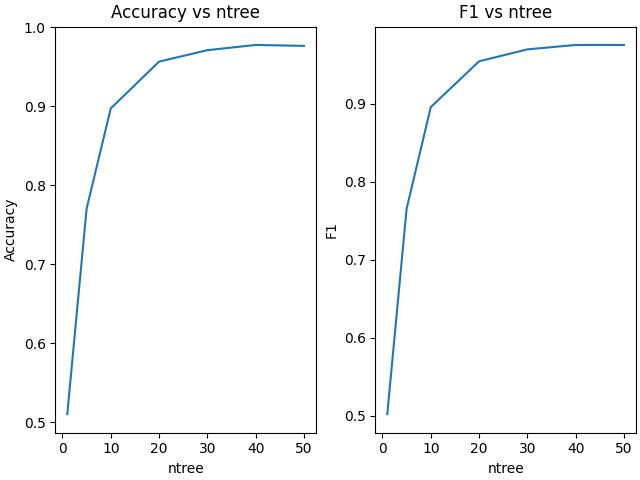
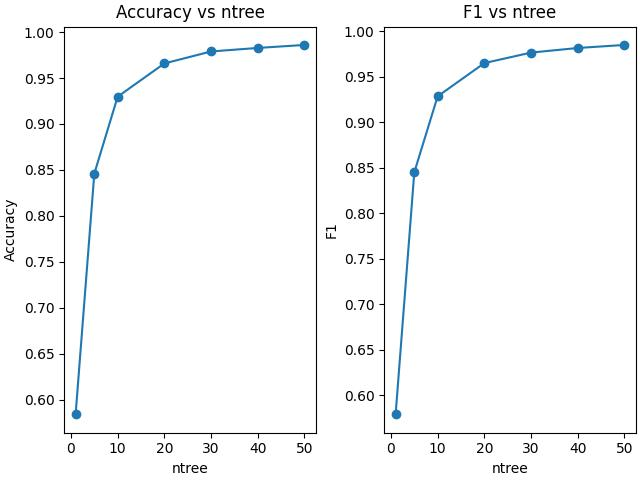
report for digits random forest, neural network

diff --git a/Final_Project.tex b/Final_Project.tex
@@ -252,13 +252,13 @@ To facilitate the task of creating this table on \LaTeX, please visit this \href
 
 \textbf{There are four ways in which we may receive extra credit on this assignment.} If you choose to work on any of the tasks below, please clearly indicate in your report,  \textcolor{dark-red}{\textbf{in red}}, which specific tasks you are working on for extra credit. Describe what you did as part of that task and discuss the corresponding results. Any source code you develop should be included in your Gradescope submission.
 
-\noindent \HIGHLIGHT{(Extra Points \#1: 10 Points)}
+\noindent \HIGHLIGHT{\textcolor{dark-red}{(Extra Points \#1: 10 Points)}}
 You may earn up to 10 extra points if you analyze all four datasets using an additional algorithm. That is, in this case you would be evaluating more than just two algorithms on each dataset.
 
 \noindent \HIGHLIGHT{(Extra Points \#2: 10 Points)}
 You may earn up to 10 extra points if you select a new \textit{challenging} dataset and evaluate the performance of different algorithms on it. A challenging dataset should necessarily include both categorical and numerical attributes and have more than two classes; or it should be a dataset where you have to classify images.
 
-\noindent \HIGHLIGHT{(Extra Points \#3: 15 Points)}
+\noindent \HIGHLIGHT{\textcolor{dark-red}{ (Extra Points \#3: 15 Points) }}
 You may earn up to 15 extra points if you \textit{combine} different algorithms and construct an ensemble. For instance, you could create an ensemble composed of three neural networks (each with a different architecture) and a random forest. The process of training the ensemble would be as described in class---each algorithm would be trained based on its own bootstrap dataset, etc. The final predictions would then be determined via majority voting. Evaluate your ensemble algorithm on all four datasets discussed in Section \ref{sec:datasets}.
 
 
@@ -278,19 +278,71 @@ Algorithms we are using:
 
 \subsection{Digits Dataset}
 \subsection*{Random Forest}
-Hyper-parameter:
 \begin{itemize}
 	\item \text{Split criterion: Information Gain}
-	\item $min\_size\_split = 20$
-	\item $min\_gain = 0.006$
-	\item $max\_depth = 7$
+	\item $min\_size\_split = 10$
+	\item $min\_gain = 0.1$
+	\item $max\_depth = 10$
 \end{itemize}
-\begin{figure}[]
+
+\begin{figure}[!h]
 	\includegraphics[width=\textwidth]{figures/forest_digits_ig.jpg}
 	\caption{Random forest on Digits dataset}
 	\label{fig:forest-digits}
 \end{figure}
 
+Since the datasets has many features per instance and many instances, the Decision Trees need to be more complex to be able to capture all the pattern
+in the dataset. As can see from the graph, only 1 weak Decision Tree classifier performs really badly but as the number of trees increases, the accuracy
+and F1 score increases to nearly 1 at ntree = 50. The more trees are trained, the more patterns would be capture by the Random Forest since each tree
+is being trained on a bootstrap subset of the original train data. So by getting the majority vote from the Random Forest, it is more likely to get
+the correct prediction. Also, having only 64 numerical data is eaiser for Random Forest as at every node in the tree there would only be 2 split.
+
+\subsection*{Neural Network}
+\begin{enumerate}[label=(\alph*)]
+	\item \begin{itemize}
+		      \item $\lambda = 0.01$
+		      \item $\alpha = 0.01$
+	      \end{itemize}
+
+	      \begin{table}[!h]
+		      \centering
+		      \begin{tabular}{|l|l|l|}
+			      \hline
+			      Architecture      & Accuracy Score & F1 Score \\ \hline
+			      {[}64 100 10{]}   & 0.951538       & 0.983528 \\ \hline
+			      {[}64 40 10{]}    & 0.945853       & 0.972386 \\ \hline
+			      {[}64 20 20 10{]} & 0.930637       & 0.983614 \\ \hline
+		      \end{tabular}
+	      \end{table}
+	\item \begin{itemize}
+		      \item $\lambda = 0.1$
+		      \item $\alpha = 0.1$
+	      \end{itemize}
+
+	      \begin{table}[!h]
+		      \centering
+		      \begin{tabular}{|l|l|l|}
+			      \hline
+			      Architecture      & Accuracy Score & F1 Score \\ \hline
+			      {[}64 100 10{]}   & 0.962324       & 0.983614 \\ \hline
+			      {[}64 40 10{]}    & 0.935222       & 0.977977 \\ \hline
+			      {[}64 20 20 10{]} & 0.935483       & 0.983543 \\ \hline
+		      \end{tabular}
+	      \end{table}
+\end{enumerate}
+
+\begin{figure}[!h]
+	\includegraphics[width=\textwidth]{figures/nn_digits_cost.png}
+	\caption{Cost J against the number of instances introduced with $\lambda=0.01, \alpha=0.01$}
+	\label{fig:nn-digits}
+\end{figure}
+
+The dataset has the trend that more layers means less accuracy but it can be offset with enough neurons per layer, as with the same number of layers
+the more neurons the network has, the better it performs. Having a larger $\lambda$ results in a higher performance overall while $\alpha$ values does
+not have the same magnitude of impact because the $\alpha$ values is halfed as more instances is introduced to the instances. Since the dataset has
+so many datasets, that means the $\alpha$ values would converge to a small number so the final weight of the network would be similar. As expected,
+the more instances are introduced to the network, the cost J decreases as the weight is updated to better suited the dataset until it converges to a
+small number (almost constant).
 
 \subsection{Titanic Dataset}
 
@@ -298,10 +350,6 @@ Hyper-parameter:
 
 \subsection{Parkinsons Dataset}
 
+\subsection{Summary}
+
 \end{document}
-
-
-
-
-
-

diff --git a/nn_runner.py b/nn_runner.py
@@ -1,9 +1,34 @@
+import multiprocessing
 import sys
 
 import numpy as np
 
 from nn import NeuralNetwork
 from utils import eval, load_data, normalize, split_folds, split_train_test
+
+num_epoch = 1000
+batch_size = 32
+alpha = 1
+ld = 0
+
+def eval_one_fold(args):
+    X, y, folds, k, classifier = args
+    # Training and testing
+    X_train, X_test, y_train, y_test = split_train_test(X, y, folds, k)
+    print(f"Fitting k = {k}")
+    classifier.fit(
+        X_train,
+        y_train,
+        alpha=alpha,
+        ld=ld,
+        batch_size=batch_size,
+        num_epoch=num_epoch,
+    )
+    y_pred = classifier.predict(X_test)
+    metrics = eval(y_test, y_pred)
+    print(f"Fit k = {k} done")
+    return (metrics["accuracy"], metrics["f1"])
+
 
 if __name__ == "__main__":
     try:
@@ -38,28 +63,32 @@ if __name__ == "__main__":
     # Stratification
     folds = split_folds(y, 10)
 
-    # Training and testing
-    num_epoch = 1000
-    batch_size = 32
-
     accuracy_t, f1_t = [], []
     print(f"Lambda = {ld}")
     print(f"Alpha = {alpha}")
-    for k in range(10):
-        X_train, X_test, y_train, y_test = split_train_test(X, y, folds, k)
-        print(f"Fitting k = {k}")
-        classifier.fit(
-            X_train,
-            y_train,
-            alpha=alpha,
-            ld=ld,
-            batch_size=batch_size,
-            num_epoch=num_epoch,
+    with multiprocessing.Pool() as pool:
+        results = pool.map(
+            eval_one_fold, [(X, y, folds, k, classifier) for k in range(10)]
         )
-        y_pred = classifier.predict(X_test)
-        metrics = eval(y_test, y_pred)
-        accuracy_t.append(metrics["accuracy"])
-        f1_t.append(metrics["f1"])
+        for i in range(10):
+            accuracy_t.append(results[0])
+            f1_t.append(results[1])
+
+    # for k in range(10):
+    #     X_train, X_test, y_train, y_test = split_train_test(X, y, folds, k)
+    #     print(f"Fitting k = {k}")
+    #     classifier.fit(
+    #         X_train,
+    #         y_train,
+    #         alpha=alpha,
+    #         ld=ld,
+    #         batch_size=batch_size,
+    #         num_epoch=num_epoch,
+    #     )
+    #     y_pred = classifier.predict(X_test)
+    #     metrics = eval(y_test, y_pred)
+    #     accuracy_t.append(metrics["accuracy"])
+    #     f1_t.append(metrics["f1"])
 
     print(f"Neural Network architecture: {classifier.num_neurons}")
     print(f"Accuracy: {np.mean(accuracy_t):.6f}")

diff --git a/nn_plot.py b/nn_plot.py
@@ -18,20 +18,25 @@ if __name__ == "__main__":
         ld = float(sys.argv[2])
         alpha = float(sys.argv[3])
         num_hidden_layers = int(sys.argv[4])
-        if len(sys.argv) != num_hidden_layers + 5:
-            print(len(sys.argv))
+        if len(sys.argv) < num_hidden_layers + 5:
             raise Exception()
         num_neurons = []
-        for i in range(5, len(sys.argv)):
+        for i in range(5, 5 + num_hidden_layers):
             num_neurons.append(int(sys.argv[i]))
     except Exception as err:
         print("Wrong arguments provided")
-        print(f"{type(err).__name__} - {err}")
+        print(f"{err}")
         exit()
 
     # Load data
-    output_size = 2
     X, y = load_data(dataset_name, encode=True)
+    output_size = 2
+    if "digit" in dataset_name:
+        output_size = 10
+    elif "cleveland" in dataset_name:
+        output_size = 2
+    else:
+        output_size = 2
 
     classifier = NeuralNetwork(
         X.shape[1], num_neurons, output_size, class_names=np.unique(y)
@@ -40,7 +45,7 @@ if __name__ == "__main__":
 
     # Training and testing
     num_epoch = 1
-    batch_size = 10
+    batch_size = 20
 
     accuracy_t, f1_t = [], []
     X_train, X_test, y_train, y_test = split_train_test(X, y)
